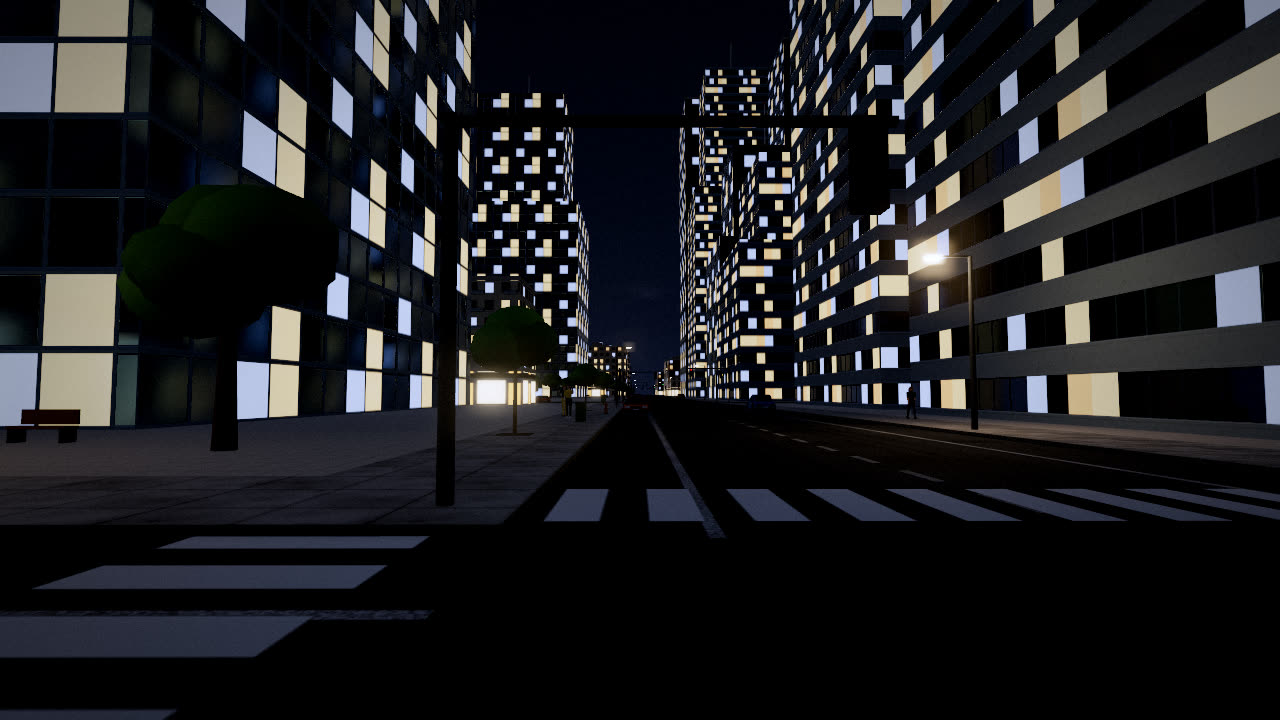
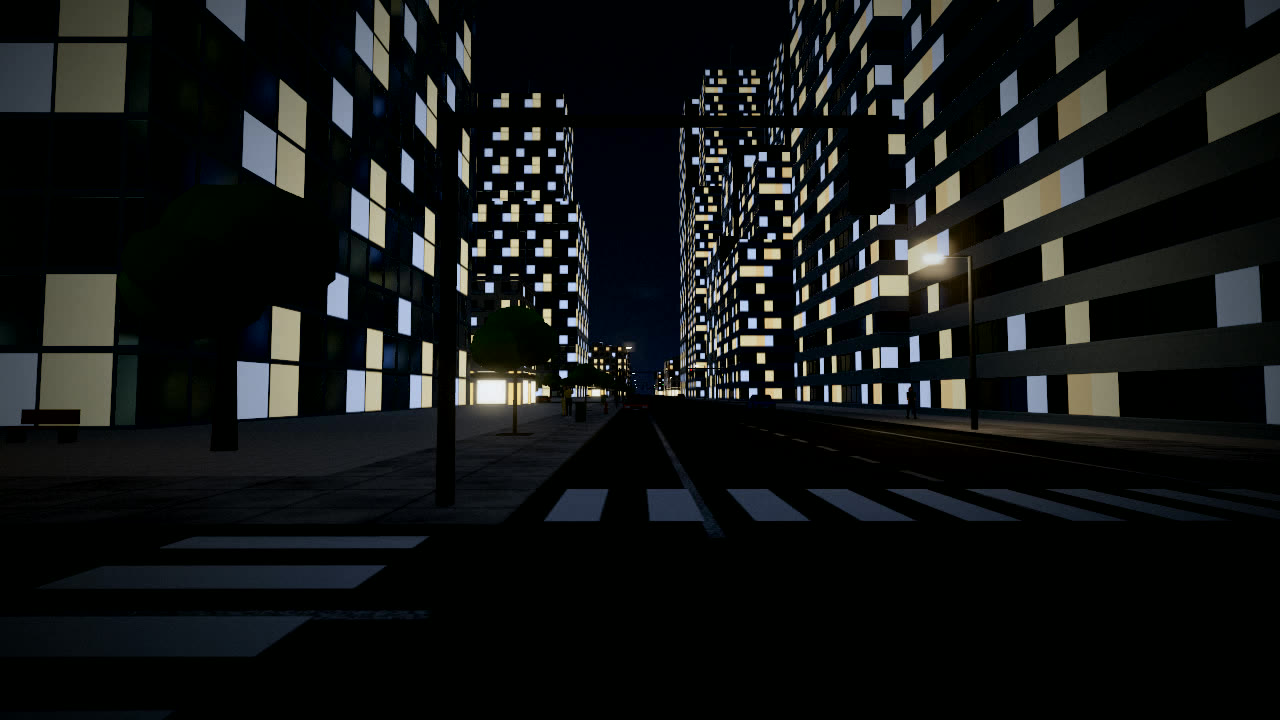
Map: forgiving taps mark the destination; car doors open when you get in (and when you pull a driver out); interior fits under the sloped glass; loading screen shows only the percentage, new graded pictures
Claude-Session: https://claude.ai/code/session_01Vf2x6Yz2HshKHWdzWL6ECm

diff --git a/open-world-game/js/vehicles/vehicleModels.js b/open-world-game/js/vehicles/vehicleModels.js
@@ -32,8 +32,12 @@ export const shared = {
 // its column (turns with the steering), front seats with headrests, rear bench, centre console with gear lever,
 // rear-view mirror. Seats sit on the floor line (top of the lower body).
 function carInterior(parts, body, o) {
-  const { W, clear, lowH, cabZ, cabL, cabH, rear } = o, y = clear + lowH, S = shared;
+  const { W, clear, lowH, cabZ, cabL, cabH, rear, prof } = o, y = clear + lowH, S = shared;
   const fz = cabZ + cabL * 0.02;
+  // room under the glass at z (height above the floor line): the windshield and rear window slope in, so nothing may
+  // stick out through them (straight-line estimate of the curved glass, a little on the safe side)
+  const H = prof ? prof.top - y - 0.06 : cabH * 0.9;
+  const room = (z) => !prof ? H : z > prof.fT ? H * Math.max(0, (prof.fB - z) / (prof.fB - prof.fT)) : z < prof.rT ? H * Math.max(0, (z - prof.rB) / (prof.rT - prof.rB)) : H;
   // everything inside stays below the roof: seat backs and headrests scale with the cabin height
   const vs = Math.max(0.4, Math.min(1, (cabH - 0.08) / 0.82)), bh = 0.58 * vs, hr = 0.17 * vs;
   for (const sx of [-1, 1]) {
@@ -44,24 +48,32 @@ function carInterior(parts, body, o) {
     m(box(0.03, bh * 0.86, 0.125), S.stitch, body, x, y + 0.06 + bh / 2, fz - 0.265, false).rotation.x = -0.12; // centre seam
   }
   if (rear) {
-    const rz = cabZ - cabL * 0.3;
-    m(box(W * 0.78, 0.12, 0.46), S.leather, body, 0, y + 0.02, rz, false);
-    m(box(W * 0.78, bh * 0.86, 0.12), S.leather, body, 0, y + 0.06 + bh * 0.43, rz - 0.26, false).rotation.x = -0.15;
-    for (const sx of [-1, 0, 1]) m(box(0.22, hr * 0.8, 0.08), S.leather, body, sx * W * 0.26, y + 0.08 + bh * 0.86 + hr * 0.4, rz - 0.3, false);
+    // rear bench: as far back as the sloping rear window allows (headrests below the glass), and narrow enough to stay
+    // inside the side windows that lean in towards the roof
+    let rz = cabZ - cabL * 0.3, rb = bh * 0.86, rh = hr * 0.8;
+    const need = () => 0.08 + rb + rh + 0.03;
+    while (room(rz - 0.34) < need() && rz < fz - 0.8) rz += 0.03;
+    if (room(rz - 0.34) < need()) { const k = Math.max(0.45, (room(rz - 0.34) - 0.11) / (rb + rh)); rb *= k; rh *= k; }
+    m(box(W * 0.7, 0.12, 0.46), S.leather, body, 0, y + 0.02, rz, false);
+    m(box(W * 0.7, rb, 0.12), S.leather, body, 0, y + 0.06 + rb / 2, rz - 0.26, false).rotation.x = -0.15;
+    for (const sx of [-1, 0, 1]) m(box(0.2, rh, 0.08), S.leather, body, sx * W * 0.24, y + 0.08 + rb + rh / 2, rz - 0.3, false);
   }
-  // dashboard, instruments, centre screen, vents
-  const dz = cabZ + cabL * 0.44;
-  m(box(W * 0.86, 0.2, 0.42), S.cabin, body, 0, y + 0.18, dz, false);
-  m(box(W * 0.86, 0.05, 0.3), S.cabin, body, 0, y + 0.3, dz + 0.06, false).rotation.x = 0.25;
-  m(box(0.3, 0.1, 0.02), S.gauge, body, W * 0.22, y + 0.32, dz - 0.2, false).rotation.x = -0.35;
-  m(box(0.24, 0.14, 0.02), S.screen, body, 0, y + 0.3, dz - 0.21, false).rotation.x = -0.3;
-  for (const sx of [-1, 1]) m(box(0.1, 0.04, 0.02), S.dark, body, sx * W * 0.36, y + 0.24, dz - 0.215, false);
+  // dashboard, instruments, centre screen, vents: tucked in under the base of the windshield
+  const dTop = 0.3, dDepth = 0.36;
+  let dFront = cabZ + cabL * 0.44 + 0.21;
+  while (room(dFront) < dTop + 0.03 && dFront > cabZ + cabL * 0.3 + dDepth) dFront -= 0.02;
+  const dk = Math.min(1, room(dFront) / (dTop + 0.03)), dz = dFront - dDepth / 2;
+  m(box(W * 0.84, 0.2 * dk, dDepth), S.cabin, body, 0, y + 0.08 + 0.1 * dk, dz, false);
+  m(box(W * 0.84, 0.05, dDepth * 0.7), S.cabin, body, 0, y + 0.08 + 0.22 * dk, dz - 0.03, false).rotation.x = 0.25;
+  m(box(0.3, 0.1, 0.02), S.gauge, body, W * 0.22, y + 0.06 + 0.24 * dk, dz - dDepth / 2 - 0.01, false).rotation.x = -0.35;
+  m(box(0.24, 0.14, 0.02), S.screen, body, 0, y + 0.04 + 0.24 * dk, dz - dDepth / 2 - 0.01, false).rotation.x = -0.3;
+  for (const sx of [-1, 1]) m(box(0.1, 0.04, 0.02), S.dark, body, sx * W * 0.34, y + 0.06 + 0.17 * dk, dz - dDepth / 2 - 0.01, false);
   // centre console + gear lever
   m(box(0.2, 0.18, cabL * 0.32), S.cabin, body, 0, y + 0.05, fz + 0.08, false);
   m(new THREE.CylinderGeometry(0.012, 0.012, 0.14, 6), S.chrome, body, 0, y + 0.2, fz + 0.18, false);
   m(new THREE.SphereGeometry(0.03, 8, 6), S.dark, body, 0, y + 0.28, fz + 0.18, false);
   // rear-view mirror
-  m(box(0.22, 0.06, 0.02), S.dark, body, 0, y + cabH * 0.78, cabZ + cabL * 0.4, false);
+  { let mz = cabZ + cabL * 0.4; while (room(mz) < H * 0.82 && mz > cabZ) mz -= 0.02; m(box(0.22, 0.06, 0.02), S.dark, body, 0, y + Math.min(cabH * 0.78, room(mz) - 0.06), mz, false); }
   // steering wheel on a column (a group, so it can turn and is not merged with the body)
   const col = new THREE.Group(); col.position.set(W * 0.22, y + 0.3, cabZ + cabL * 0.3); col.rotation.x = -1.15; body.add(col);
   m(new THREE.CylinderGeometry(0.025, 0.03, 0.24, 8), S.cabin, col, 0, -0.12, 0, false);
@@ -196,7 +208,7 @@ function glassHouse(T, W, base, cabZ, cabL, cabH, sporty) {
     g.applyQuaternion(q); g.translate((A.x + B.x) / 2, (A.y + B.y) / 2, (A.z + B.z) / 2);
     return g;
   };
-  return { glass, roof, pillars, pillar };
+  return { glass, roof, pillars, pillar, prof: { fB, fT, rT, rB, base, top } };
 }
 
 // Merge the static meshes of the body by material (fewer draw calls) and build a one-mesh LOD for distance.
@@ -426,7 +438,7 @@ export function buildVehicleModel(type, color) {
         m(G.roof, paint, body, 0, 0, 0);
         for (const [a, b] of G.pillars) m(G.pillar(a, b), paint, body, 0, 0, 0, false);
         if (T.van) for (const sx of [-1, 1]) m(box(0.04, cabH * 0.75, cabL * 0.55), paint, body, sx * W * 0.395, clear + lowH + cabH * 0.42, cabZ - cabL * 0.2);
-        carInterior(parts, body, { W, clear, lowH, cabZ, cabL, cabH, rear: !sporty && !T.pickup && cabL > 1.9 });
+        carInterior(parts, body, { W, clear, lowH, cabZ, cabL, cabH, rear: !sporty && !T.pickup && cabL > 1.9, prof: G.prof });
       }
       if (T.pickup) {
         // open cargo bed behind the cab

diff --git a/open-world-game/js/main.js b/open-world-game/js/main.js
@@ -171,7 +171,7 @@ class Game {
     };
     const show = (pct) => { $('loadPct').textContent = pct + '%'; $('loadBar').style.width = pct + '%'; };
     next(); show(0);
-    const slideT = setInterval(next, 5800);
+    const slideT = setInterval(next, 4400);   // eight pictures across the ~35 s
     // read the real clock (not a tick counter), so a busy phone that delays a timer never stretches the intro
     const t0 = performance.now();
     return new Promise((resolve) => {
@@ -697,6 +697,9 @@ class Game {
       const prev = pts.get(e.pointerId);
       pts.set(e.pointerId, [e.clientX, e.clientY]);
       if (pts.size === 1) {
+        // a finger always wobbles a little while tapping: the map only starts to pan after a real drag
+        if (downAt && !dragging && Math.hypot(e.clientX - downAt[0], e.clientY - downAt[1]) < 14) return;
+        dragging = true;
         const k = devicePixelRatio / this.minimap.fullScale;
         this.fullView.x -= (e.clientX - prev[0]) * k; this.fullView.z -= (e.clientY - prev[1]) * k;
         this.drawFullMap();
@@ -707,17 +710,21 @@ class Game {
         pinch = d;
       }
     });
-    let downAt = null;
-    c.addEventListener('pointerdown', (e) => { downAt = [e.clientX, e.clientY]; });
+    let downAt = null, downT = 0, dragging = false, multi = false;
+    c.addEventListener('pointerdown', (e) => { if (pts.size > 1) multi = true; if (pts.size === 1) { downAt = [e.clientX, e.clientY]; downT = performance.now(); dragging = false; multi = false; } });
     const up = (e) => {
-      // a tap (not a drag) marks a GPS destination there
-      if (pts.size === 1 && downAt && Math.hypot(e.clientX - downAt[0], e.clientY - downAt[1]) < 8) {
+      // a tap (not a drag or a pinch) marks a GPS destination there
+      const tap = e.type === 'pointerup' && pts.size === 1 && !multi && !dragging && downAt && Math.hypot(e.clientX - downAt[0], e.clientY - downAt[1]) < 18;
+      if (tap) {
         const r = c.getBoundingClientRect(), k = devicePixelRatio / this.minimap.fullScale;
-        const x = this.fullView.x + (e.clientX - r.left - r.width / 2) * k, z = this.fullView.z + (e.clientY - r.top - r.height / 2) * k;
+        const x = this.fullView.x + (downAt[0] - r.left - r.width / 2) * k, z = this.fullView.z + (downAt[1] - r.top - r.height / 2) * k;
         this.gps.set({ x, z, name: 'נקודה במפה', radius: 15 }, this.playerPos());
         this.drawFullMap();
+        this.toast('📍 יעד סומן — הדרך בסגול', 1.6);
+        this.audio.mech?.('dry');
       }
-      pts.delete(e.pointerId); pinch = 0; downAt = null;
+      pts.delete(e.pointerId); pinch = 0;
+      if (!pts.size) { downAt = null; dragging = false; }
     };
     c.addEventListener('pointerup', up); c.addEventListener('pointercancel', up);
     c.addEventListener('wheel', (e) => { e.preventDefault(); zoom(e.deltaY > 0 ? 1.2 : 0.83); }, { passive: false });

diff --git a/open-world-game/index.html b/open-world-game/index.html
@@ -19,12 +19,14 @@
   <div id="loading" class="screen show">
     <!-- GTA-style loading: big pictures from the game itself, slowly panning and fading into each other -->
     <div class="ld-slides">
-      <div class="ld-slide" style="background-image:url(assets/loading/skyline.jpg)" data-cap="לוס אנטוס — העיר שלא נרדמת"></div>
-      <div class="ld-slide" style="background-image:url(assets/loading/rifle.jpg);background-position:center 40%" data-cap="ג׳ייסון. אל תעמוד בדרך שלו."></div>
-      <div class="ld-slide" style="background-image:url(assets/loading/woman.jpg);background-position:center 18%" data-cap="כל אחד כאן מחפש משהו"></div>
-      <div class="ld-slide" style="background-image:url(assets/loading/car.jpg)" data-cap="תבחר רכב. כל רכב."></div>
-      <div class="ld-slide" style="background-image:url(assets/loading/trio.jpg);background-position:center 60%" data-cap="מיגל · טבור · ג׳ייסון"></div>
-      <div class="ld-slide" style="background-image:url(assets/loading/night.jpg)" data-cap="בלילה העיר מתחילה לחיות"></div>
+      <div class="ld-slide" style="background-image:url(assets/loading/chute.jpg)"></div>
+      <div class="ld-slide" style="background-image:url(assets/loading/gang.jpg);background-position:center 45%"></div>
+      <div class="ld-slide" style="background-image:url(assets/loading/car.jpg)"></div>
+      <div class="ld-slide" style="background-image:url(assets/loading/skyline.jpg)"></div>
+      <div class="ld-slide" style="background-image:url(assets/loading/trio.jpg);background-position:center 60%"></div>
+      <div class="ld-slide" style="background-image:url(assets/loading/heli.jpg)"></div>
+      <div class="ld-slide" style="background-image:url(assets/loading/woman.jpg);background-position:center 30%"></div>
+      <div class="ld-slide" style="background-image:url(assets/loading/night.jpg)"></div>
     </div>
     <div class="ld-shade"></div>
     <div class="ld-logo">לוס <span>אנטוס</span></div>

diff --git a/open-world-game/js/player/player.js b/open-world-game/js/player/player.js
@@ -331,7 +331,7 @@ export class Player {
   _entering(dt, world) {
     const v = this.vehicle, s = this.seq;
     s.t += dt;
-    if (v.jacking) v.sync(dt);   // a car taken from traffic is not updated by anyone else while you pull the driver out: animate its door here
+    v.sync(dt);   // a parked car (or one taken from traffic) is not updated by anyone else while you get in: animate its door here
     if (s.phase === 'walk') {
       const dp = v.doorPoint();
       const dx = dp.x - this.x, dz = dp.z - this.z, d = Math.hypot(dx, dz);
@@ -349,7 +349,7 @@ export class Player {
       v.doorTarget = 1;
       this.facing = dampAngle(this.facing, v.heading + Math.PI / 2 * 0 - Math.PI / 2, 10, dt);
       this.model.animate(dt, { speed: 0, grounded: true, mode: 'foot', doorReach: true });
-      if (s.t > (s.jack ? 0.6 : 0.35)) {
+      if (s.t > (s.jack ? 0.75 : 0.6)) {   // the door swings open first (and stays open while you climb in)
         if (s.jack) { s.phase = 'yank'; s.t = 0; world.onYank?.(v, s.jack); }
         else { s.phase = 'sit'; s.t = 0; }
       }
@@ -482,6 +482,7 @@ export class Player {
   _exiting(dt, world) {
     const v = this.vehicle, s = this.seq;
     s.t += dt;
+    v.sync(dt);   // the door opens and closes even on a car nobody else is updating
     if (s.phase === 'open') {
       v.doorTarget = 1;
       this.model.animate(dt, { speed: 0, mode: v.parts.seatMode, doorReach: true });
@@ -509,7 +510,8 @@ export class Player {
       if (k >= 1) { s.phase = 'close'; s.t = 0; v.doorTarget = 0; }
     } else if (s.phase === 'close') {
       this.model.animate(dt, { speed: 0, grounded: true, mode: 'foot' });
-      if (s.t > 0.25) {
+      if (s.t > 0.4) {
+        v.doorAngle = 0; v.sync(0.016);   // door shut (a parked car is not animated after you walk away)
         v.driver = null; this.lastVehicle = v; this.vehicle = null; this.ignoreVehicle = null;
         this.state = 'foot'; this.seq = null; this.vx = this.vz = this.vy = 0; this.grounded = true;
       }

diff --git a/open-world-game/css/style.css b/open-world-game/css/style.css
@@ -21,6 +21,9 @@ html, body { margin: 0; height: 100%; overflow: hidden; overscroll-behavior: non
 .ld-logo span { color: #ffb347; }
 .ld-cap { position: absolute; z-index: 101; left: 0; right: 0; top: max(18px, env(safe-area-inset-top)); text-align: center; font: 700 clamp(15px, 2.6vw, 22px) "Rubik", "Assistant", Arial, sans-serif; color: #fff; text-shadow: 0 2px 8px #000; opacity: 0; transition: opacity .8s; direction: rtl; }
 .ld-cap.on { opacity: .92; }
+/* only the percentage, large and clean in the corner (no caption, bar, spinner or text) */
+#loading .ld-cap, #loading .ld-spin, #loading .ld-prog .bar, #loading #loadText { display: none !important; }
+#loading .ld-pct { font: 800 clamp(30px, 5.2vw, 46px)/1 "Rubik", "Assistant", Arial, sans-serif; letter-spacing: 1px; color: #fff; text-shadow: 0 2px 0 #000a, 0 0 18px #0009; min-width: 0; font-variant-numeric: tabular-nums; direction: ltr; }
 .ld-prog { position: absolute; z-index: 101; right: max(22px, env(safe-area-inset-right)); bottom: max(24px, env(safe-area-inset-bottom)); display: grid; grid-template-columns: auto auto; align-items: center; gap: 6px 12px; direction: rtl; }
 .ld-spin { width: 26px; height: 26px; border-radius: 50%; border: 3px solid #ffffff33; border-top-color: #fff; animation: ldspin 0.9s linear infinite; grid-row: span 2; }
 @keyframes ldspin { to { transform: rotate(360deg); } }
